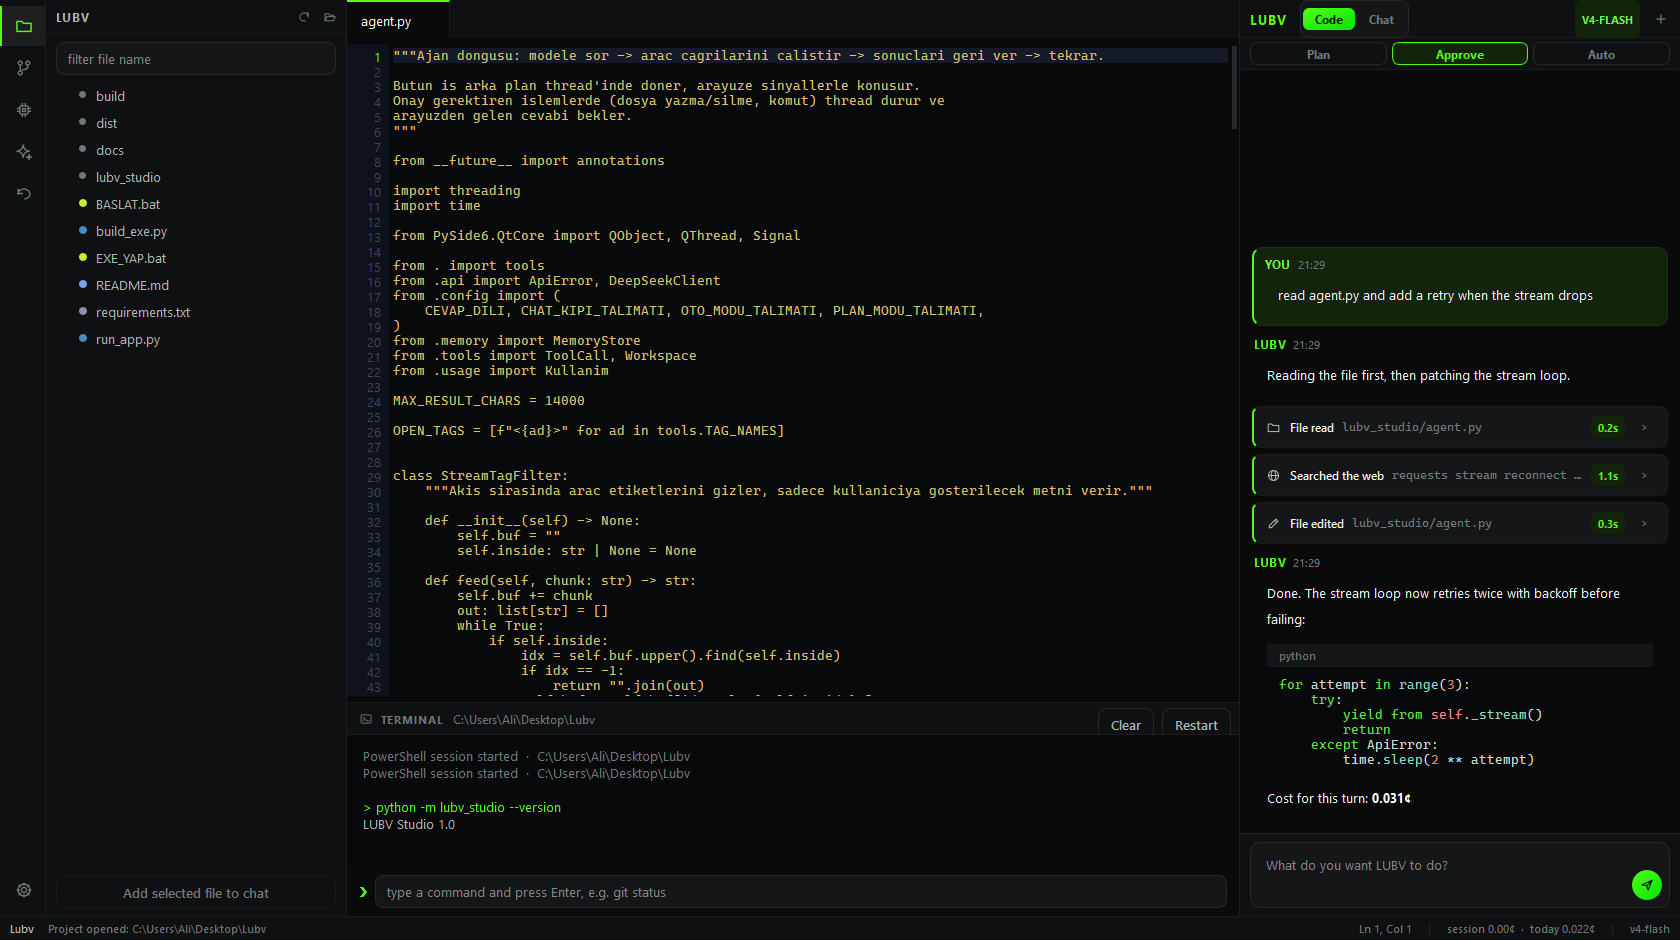
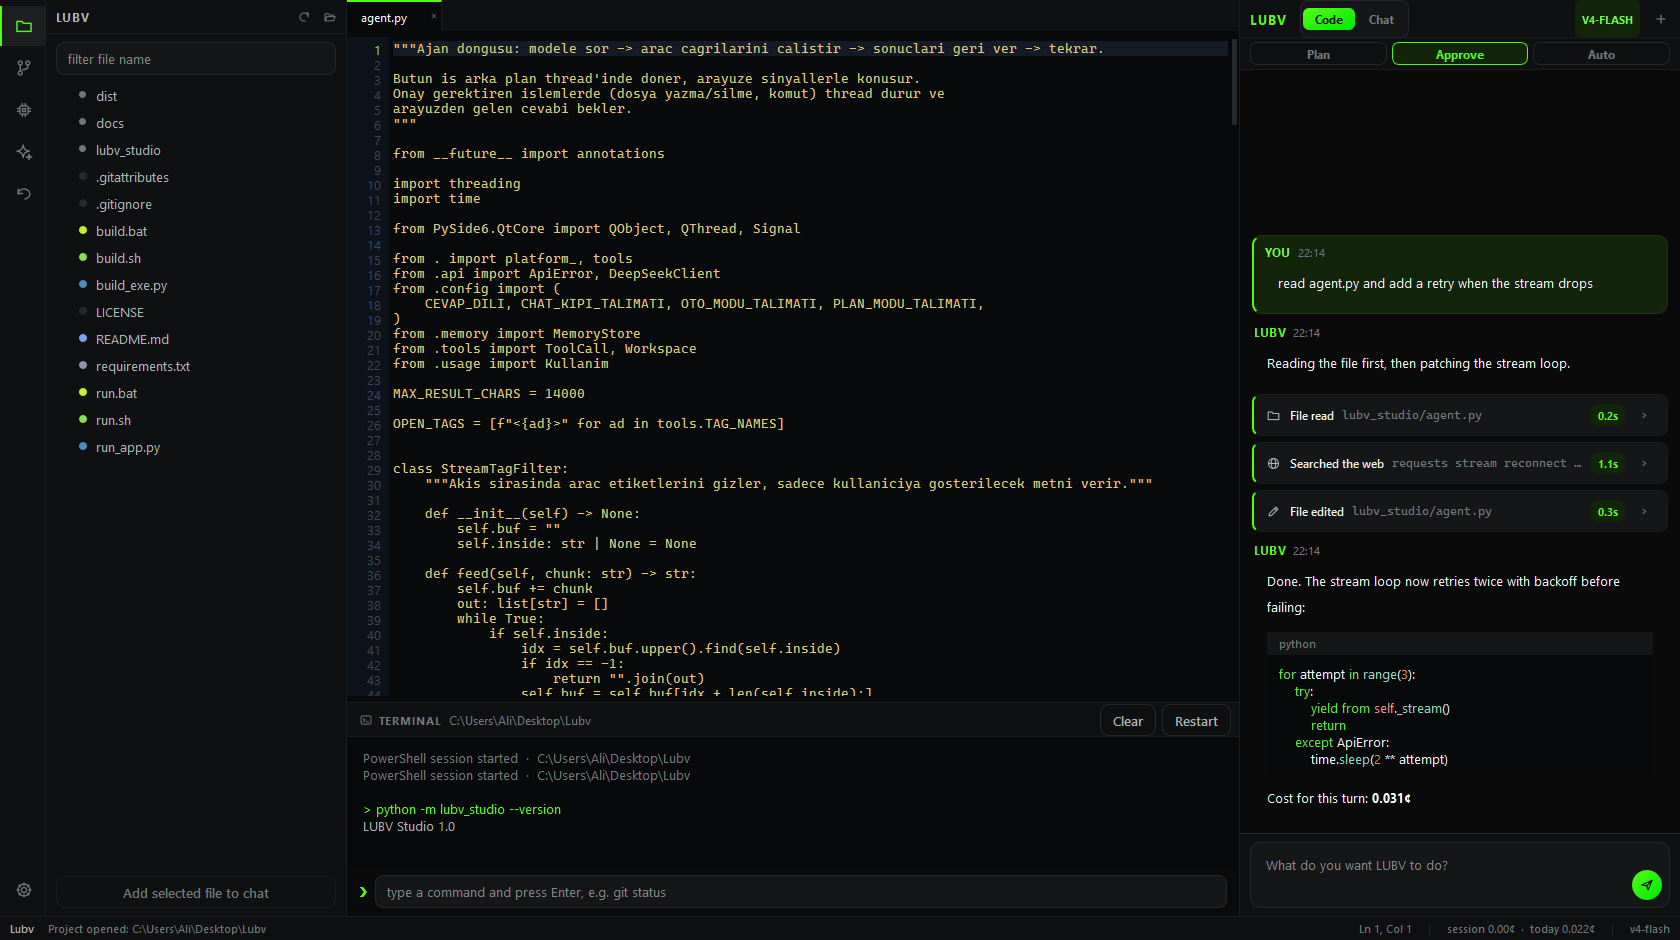
Document macOS support and refresh the screenshot
- Install page now covers both platforms and the shell launcher.
- Tool reference states which shell a command runs in and notes that agent
  commands are mirrored into the terminal panel.
- Replaced every em dash with ordinary punctuation.
- Added the ignore rules this branch was missing, so build output cannot be
  committed here by accident.

diff --git a/getting-started.md b/getting-started.md
@@ -4,10 +4,13 @@
 
 ## 1. Install
 
-### Prebuilt executable
+### Prebuilt application
 
-Download `LUBV Studio.exe` from [Releases](../../releases) and double click it.
-No Python needed, nothing to configure, one file.
+Download the build for your platform from [Releases](../../releases).
+No Python needed, nothing to configure.
+
+- Windows: `LUBV Studio.exe`, a single file.
+- macOS: `LUBV Studio.app`, drag it into Applications.
 
 ### From source
 
@@ -18,7 +21,8 @@ pip install -r requirements.txt
 python -m lubv_studio
 ```
 
-Python 3.10 or newer. Windows, because the integrated terminal is PowerShell.
+Python 3.10 or newer, on Windows or macOS. On macOS use `./run.sh` instead of
+the commands above if you prefer a single step.
 
 ## 2. Get an API key
 
@@ -41,9 +45,9 @@ press **Test connection**. It confirms the key and shows your remaining balance.
 
 While you are there, pick a model:
 
-- **V4 Flash** — the default. Fast, cheap, 1M token context. Right for almost
+- **V4 Flash:** the default. Fast, cheap, 1M token context. Right for almost
   everything.
-- **V4 Pro** — noticeably stronger on hard architectural work. Roughly three
+- **V4 Pro:** noticeably stronger on hard architectural work. Roughly three
   times the price.
 
 ## 5. Write the brain
@@ -67,7 +71,7 @@ read main.py and add proper error handling to the file loading
 ```
 
 ```
-this crashes with "KeyError: config" — find out why and fix it
+this crashes with "KeyError: config", find out why and fix it
 ```
 
 ```

diff --git a/writing-the-brain.md b/writing-the-brain.md
@@ -14,14 +14,14 @@ extra layer of instructions between what you wrote and what the model receives.
 
 In order:
 
-1. **Your brain** — verbatim.
-2. **Response language** — one short block telling the model to answer in the
+1. **Your brain:** verbatim.
+2. **Response language:** one short block telling the model to answer in the
    interface language you selected.
-3. **Mode instructions** — only in Plan or Auto mode, describing that mode's
+3. **Mode instructions:** only in Plan or Auto mode, describing that mode's
    constraints.
-4. **Memory** — your saved notes, if memory is enabled.
-5. **Project context** — root path, OS, open editor tabs, and the file tree.
-6. **Tool protocol** — the tags and the rules for using them.
+4. **Memory:** your saved notes, if memory is enabled.
+5. **Project context:** root path, OS, open editor tabs, and the file tree.
+6. **Tool protocol:** the tags and the rules for using them.
 
 Items 2 through 6 are generated. Item 1 is yours.
 

diff --git a/tool-reference.md b/tool-reference.md
@@ -96,7 +96,8 @@ python -m pytest -q
 </RUN_COMMAND>
 ```
 
-Runs in the project directory through PowerShell. Output is merged (stdout and
+Runs in the project directory through your platform's shell: PowerShell on
+Windows, zsh on macOS. Output is merged (stdout and
 stderr), truncated at 20,000 characters, and prefixed with the exit code so the
 agent can tell success from failure. Default timeout is 120 seconds, adjustable
 in Settings.
@@ -149,6 +150,9 @@ C:\Users\me\.ssh\id_rsa     absolute, outside the root
 ```
 
 Absolute paths that do land inside the project root are allowed.
+
+Shell commands the agent runs are also mirrored into the terminal panel, so
+you can read what happened without expanding the tool card.
 
 This applies to file operations. Shell commands are not sandboxed; they run with
 your user account's permissions, exactly as if you had typed them into a

diff --git a/README.md b/README.md
@@ -1,4 +1,4 @@
-# LUBV Studio — Documentation
+# LUBV Studio, Documentation
 
 > This is the `docs` branch. Long-form manual, kept separate from the source so
 > it can grow without adding noise to code diffs.
@@ -50,6 +50,9 @@ The Undo panel restores any of them with one click.
 
 **You always know the bill.** Token counts and USD cost are recorded per
 request and totalled per session, per day and all time.
+
+**Windows and macOS.** The shell, the fonts and the packaging adapt to the
+platform; everything else is identical.
 
 **Two interface languages.** Turkish and English. The agent replies in whichever
 one is selected, regardless of what language you type in.

diff --git a/cost-and-models.md b/cost-and-models.md
@@ -62,9 +62,9 @@ Neither should change how you work; they just explain the numbers.
 
 ## Where the meter is
 
-**Status bar** — session and today, always visible.
+**Status bar:** session and today, always visible.
 
-**Settings › Spending** — session, today, all time, and the last few days, with
+**Settings › Spending:** session, today, all time, and the last few days, with
 token and request counts.
 
 History is kept for 90 days in `~/.lubv_studio/usage.json`. The session counter
